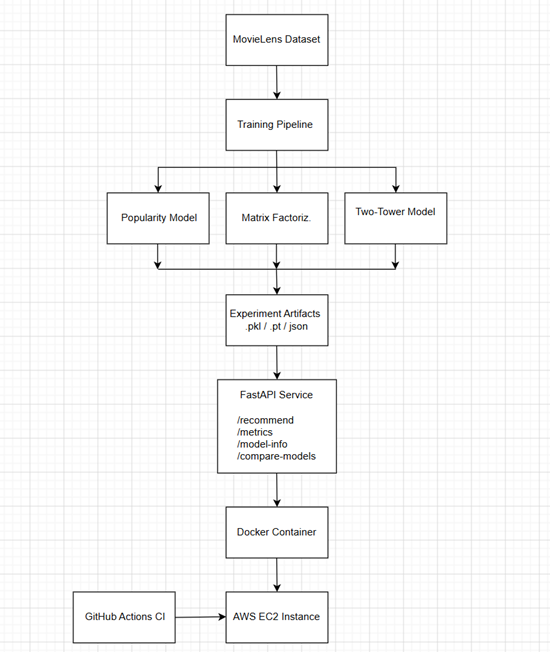
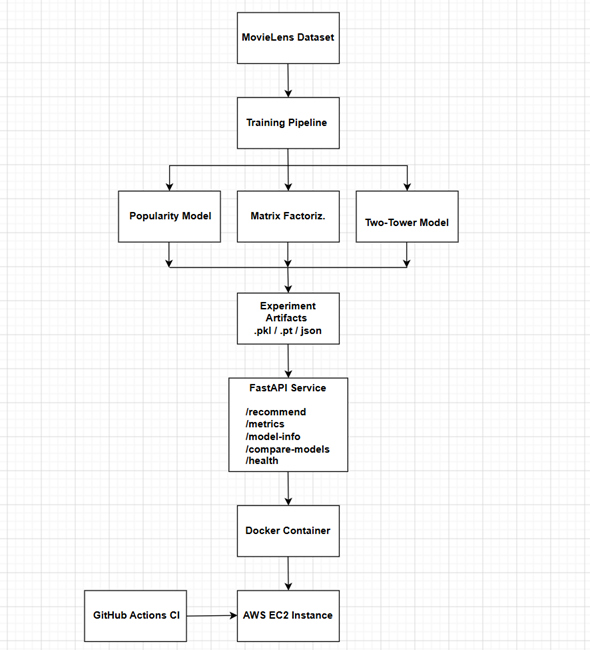
docs: polish README with architecture and portfolio screenshots

Changed region(s): [[0.1236, 0.0, 0.8345, 1.0], [0.2164, 0.3692, 0.2473, 0.4]]

diff --git a/README.md b/README.md
@@ -1,10 +1,10 @@
 # RecSysOps: End-to-End MLOps Recommendation System
 
-Production-ready recommendation system demonstrating machine learning engineering, MLOps, containerization, CI/CD, and cloud deployment.
+Production-ready recommendation system demonstrating machine learning engineering, MLOps, containerization, CI/CD, experiment tracking, and cloud deployment.
 
 ## Overview
 
-RecSysOps is an end-to-end recommendation system built using the MovieLens 100K dataset. The project trains and serves multiple recommendation algorithms through a FastAPI service deployed on AWS with automated testing and CI/CD.
+RecSysOps is an end-to-end recommendation system built using the MovieLens 100K dataset. The project trains, evaluates, compares, and serves multiple recommendation algorithms through a FastAPI service deployed on AWS EC2 with automated testing and CI/CD.
 
 ### Models Implemented
 
@@ -22,6 +22,23 @@ RecSysOps is an end-to-end recommendation system built using the MovieLens 100K 
 * Model comparison endpoint
 * Automated testing
 * Swagger API documentation
+* Model artifact management
+
+---
+
+## System Architecture
+
+The diagram below illustrates the complete machine learning lifecycle from training to deployment.
+
+![Architecture](docs/images/architecture-diagram.png)
+
+### Deployment Flow
+
+MovieLens Dataset → Training Pipeline → Recommendation Models → Experiment Artifacts → FastAPI Service → Docker Container → AWS EC2 Deployment
+
+GitHub Actions automatically runs tests and validates changes before deployment.
+
+---
 
 ## Screenshots
 
@@ -29,57 +46,97 @@ RecSysOps is an end-to-end recommendation system built using the MovieLens 100K 
 
 ![Swagger UI](docs/images/swagger-ui.png)
 
+Interactive Swagger/OpenAPI documentation generated automatically by FastAPI.
+
+---
+
 ### Recommendation Endpoint
 
 ![Recommendation Endpoint](docs/images/recommend-endpoint.png)
+
+Example recommendation request and ranked movie recommendations returned by the API.
+
+---
 
 ### Model Comparison
 
 ![Model Comparison](docs/images/compare-models.png)
 
+Experiment tracking and model comparison across recommendation algorithms.
+
+---
+
 ### CI/CD Pipeline
 
 ![GitHub Actions](docs/images/github-actions.png)
 
-### System Architecture
+Automated testing and deployment validation using GitHub Actions.
 
-![Architecture](docs/images/architecture-diagram.png)
+---
+
+## Model Evaluation
+
+Models were evaluated using Precision@10 and Recall@10.
+
+| Model                | Precision@10          | Recall@10 |
+| -------------------- | --------------------- | --------- |
+| Popularity           | 0.00477               | 0.04772   |
+| Matrix Factorization | 0.00361               | 0.03606   |
+| Two-Tower            | Training Loss = 0.378 | N/A       |
+
+Current best model according to Precision@10:
+
+**Popularity Baseline**
+
+---
 
 ## API Endpoints
 
 ### Health Check
 
-GET /health
+**GET /health**
 
 Response:
 
+```json
 {
-"status": "ok"
+  "status": "ok"
 }
+```
 
 ### Recommendations
 
-POST /recommend
+**POST /recommend**
 
 Request:
 
+```json
 {
-"user_id": 1,
-"k": 10,
-"model_name": "matrix_factorization"
+  "user_id": 1,
+  "k": 10,
+  "model_name": "matrix_factorization"
 }
+```
 
 ### Metrics
 
-GET /metrics
+**GET /metrics**
 
-Returns training metrics and experiment information.
+Returns training metrics, experiment artifacts, and model information.
 
 ### Model Comparison
 
-GET /compare-models
+**GET /compare-models**
 
-Compares available recommendation models and identifies the best-performing model.
+Compares available recommendation models and identifies the best-performing model based on evaluation metrics.
+
+### Model Information
+
+**GET /model-info**
+
+Displays available recommendation models and metadata.
+
+---
 
 ## Tech Stack
 
@@ -101,55 +158,93 @@ Compares available recommendation models and identifies the best-performing mode
 * FastAPI
 * Uvicorn
 
+### Testing
+
+* Pytest
+
+---
+
+## Project Highlights
+
+* Trained and evaluated three recommendation approaches
+* Implemented experiment tracking and artifact management
+* Built production-style REST APIs using FastAPI
+* Containerized the application with Docker
+* Automated testing with GitHub Actions
+* Deployed inference services to AWS EC2
+* Added model comparison and monitoring endpoints
+* Created an end-to-end MLOps workflow from training to deployment
+
+---
+
 ## Testing
 
 Run locally:
 
+```bash
 pytest
+```
+
+---
 
 ## Local Development
 
-git clone <repo-url>
+Clone the repository:
 
+```bash
+git clone https://github.com/farshad-haddadi/recsysops.git
+cd recsysops
+```
+
+Build the Docker image:
+
+```bash
 docker build -t recsysops .
+```
 
+Run the application:
+
+```bash
 docker run -p 8000:8000 recsysops
+```
 
 Open:
 
+```text
 http://localhost:8000/docs
+```
+
+---
 
 ## Live Demo
 
-Swagger UI:
+### Swagger UI
 
 http://18.116.199.104:8000/docs
 
-Health Check:
+### Health Check
 
 http://18.116.199.104:8000/health
+
+---
 
 ## Example Results
 
 Current deployed models:
 
 * Matrix Factorization
-* Two Tower
+* Two-Tower Neural Recommendation Model
 * Popularity Baseline
 
-Model comparison endpoint automatically evaluates available experiment artifacts and identifies the best-performing model.
+The model comparison endpoint automatically evaluates available experiment artifacts and identifies the best-performing model.
 
-## Future Improvements
 
-* Feature Store integration
-* MLflow experiment tracking
-* Kubernetes deployment
-* Continuous training pipeline
-* Monitoring and observability
+---
 
 ## Author
 
-Farshad Haddadi
+**Farshad Haddadi**
 
-GitHub:
-https://github.com/farshad-haddadi
+GitHub: https://github.com/farshad-haddadi
+
+LinkedIn: https://www.linkedin.com/in/farshadhaddadi
